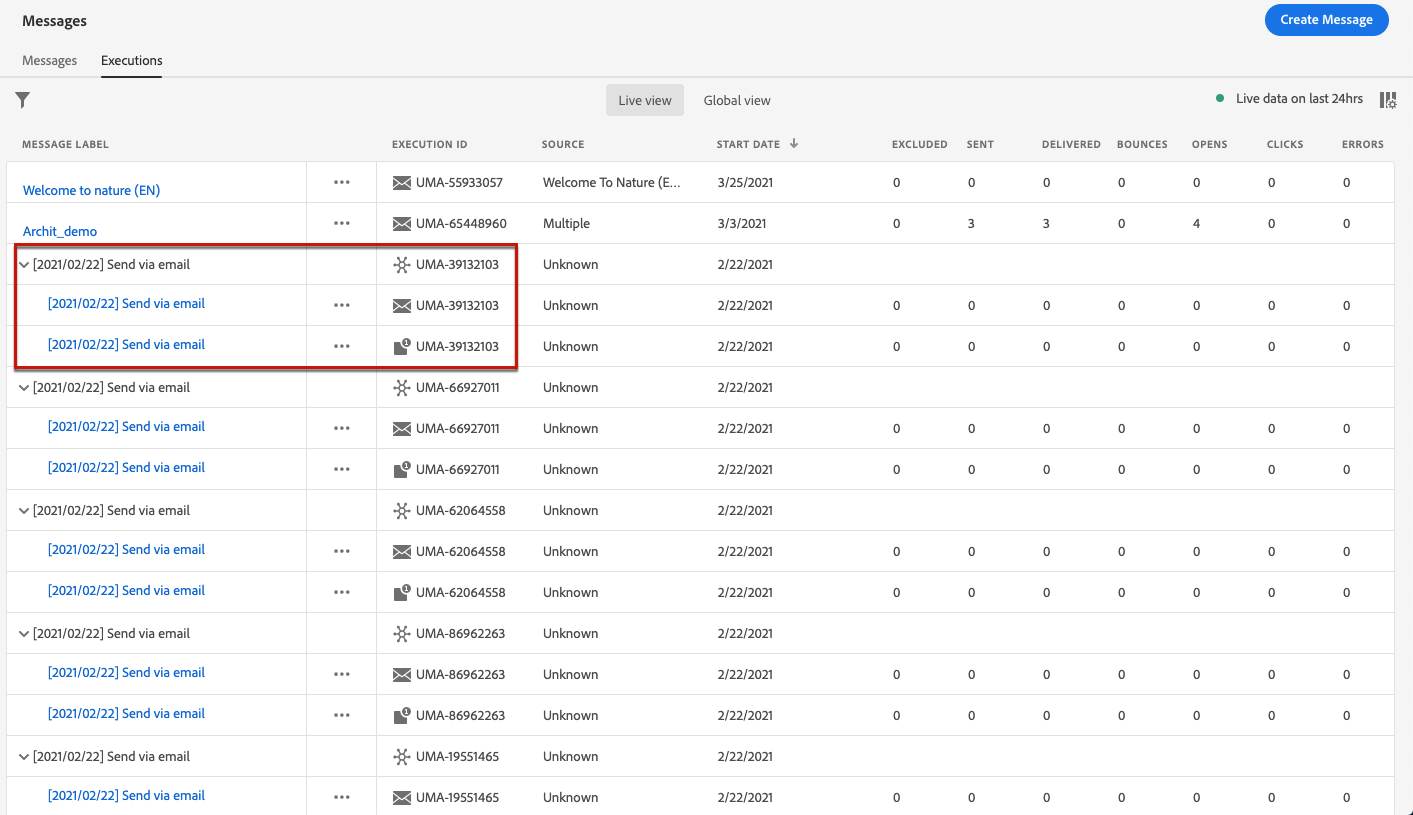
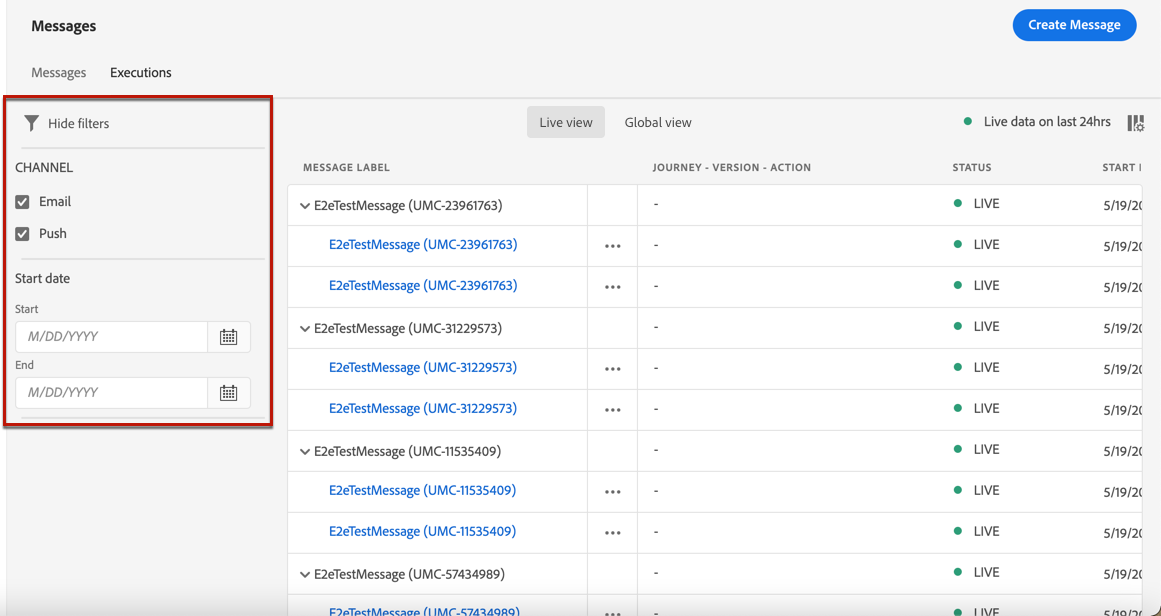
execution list updates

diff --git a/help/using/message-monitoring.md b/help/using/message-monitoring.md
@@ -32,7 +32,7 @@ For multichannel messages, one row per channel is displayed for each message.
 
 ![](assets/message-execution-multichannel.png)
 
-If a message has been used in several journeys, the **[!UICONTROL Source]** column displays **[!UICONTROL Multiple]**.
+<!--If a message has been used in several journeys, the **[!UICONTROL Source]** column displays **[!UICONTROL Multiple]**.-->
 
 By default, the messages are displayed starting from the most recent execution date. Click the **[!UICONTROL Filters]** icon to search the messages according to the channel, the start date, and/or the end date.
 
@@ -44,20 +44,37 @@ The <!--**[!UICONTROL Quick action]**-->second column enables to open the corres
 
 For each message execution, a number of indicators are displayed:
 
-* **[!UICONTROL Message label]**: Message title that you defined upon [creating the message](create-message.md).
-* **[!UICONTROL Execution ID]**: Automatically generated identifier.
-* **[!UICONTROL Source]**: Name of the journey leveraging that message.
+* **[!UICONTROL Message label]**: Message title that you defined upon [creating the message](create-message.md). The execution ID, which is automatically generated, is displayed in parentheses.
+
+<!--**[!UICONTROL Execution ID]**: Automatically generated identifier.
+
+**[!UICONTROL Source]**: Name of the journey leveraging that message.-->
+
+* **[!UICONTROL Journey - Version - Action]**: Name of the journey leveraging the message, version of the message<!--??-->, and label of the action leveraging the message<!--??-->.
+
+* **[!UICONTROL Status]**: Message execution status. <!--List all the possible statuses?-->
+
 * **[!UICONTROL Start date]**: Date and time when the message has been executed from the journey.
+
+<!--Targeted: Number of targeted profiles for each message execution. To come?-->
+
 * **[!UICONTROL Excluded]**: Number of profiles that have been excluded from the initial target due to exclusion rules.
+
 * **[!UICONTROL Sent]**: Number of messages that have been sent.
+
 * **[!UICONTROL Delivered]**: Number of messages successfully delivered in the recipient's mailbox (email) or device (push) without generating a bounce or any other delivery error.
-* **[!UICONTROL Bounces]**: Number of messages that cannot be delivered because of a delivery failure. [Learn more about bounces](suppression-lists.md#delivery-failures).
+
+* **[!UICONTROL Bounces]**: Number of messages that cannot be delivered because of a delivery failure. [Learn more on bounces](suppression-lists.md#delivery-failures).
+
 * **[!UICONTROL Opens]**: Number of messages that have been opened.
+
 * **[!UICONTROL Clicks]**: Number of clicks on links in an email.
 
   >[!NOTE]
   >
   >Clicks do not exist for push notifications: when a user clicks a push notification, it opens the app, which can only be considered as an open.
+
+**[!UICONTROL Spam complaints]**: Number of messages that were marked as spam by recipients. [Learn more on complaints](https://experienceleague.adobe.com/docs/deliverability-learn/deliverability-best-practice-guide/metrics-for-deliverability/complaints.html#metrics-for-deliverability).
 
 * **[!UICONTROL Errors]**: Number of messages that cannot be sent because of a technical failure.
 
